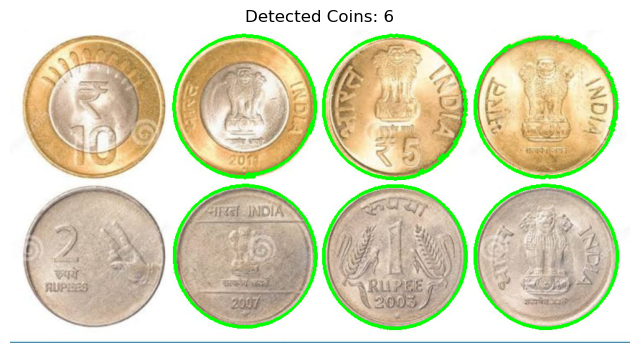
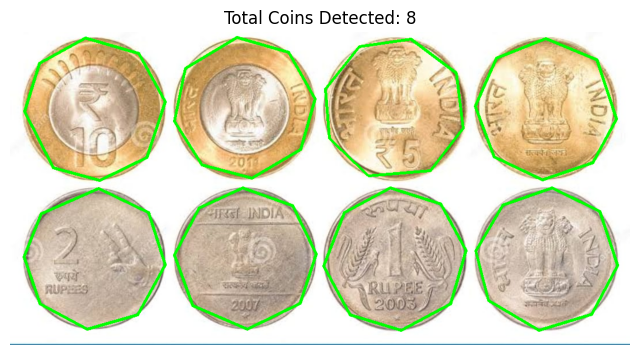
sdf

diff --git a/readme.md b/readme.md
@@ -91,7 +91,7 @@ Prewitt is generally used when you want simpler, faster computations and you are
 Sobel X/Y might produce less extreme values or smoother gradients, which are more subtle, leading to gradual gray-scale variations.
 Prewitt X/Y, by contrast, might produce a stronger contrast in its edge detections, where you have stark differences between edge and non-edge pixels, hence appearing as black and white.
 
-### 3. mill hilderth edge detection
+### 3. Mill hilderth edge detection
 
 Uses Laplacian of Gaussian (LoG) to detect zero crossings.
 
@@ -120,40 +120,11 @@ one pixel thick edges
 less error(get true edges)
 
 ## total count of coin detected
-Load the Image
 
-    The script reads the image file (coinn.jpg).
+ The script applies grayscale conversion, Gaussian blurring, adaptive thresholding, and morphological processing to identify circular objects (coins). It filters contours based on area and circularity to ensure accurate counting. The detected coins are outlined in green, and the total count is displayed.
 
-Resize for Consistency
+![alt text](<images/output of finding no of coins.png>)
 
-    The image is resized to 80% of its original size while maintaining the aspect ratio.
-
-Convert to Grayscale
-
-    The image is converted to a grayscale format to simplify processing.
-
-Apply Adaptive Thresholding
-
-    Adaptive Gaussian thresholding is used to highlight the coins against the background.
-
-Find Contours
-
-    Contours (edges of objects) are detected in the thresholded image.
-
-Filter Contours by Area
-
-    Small contours (noise) are removed based on a minimum area threshold (5000 pixels).
-
-Draw Contours and Count Coins
-
-    The detected coin contours are drawn in green, and the number of coins is counted.
-
-Display Results
-
-    The processed image with detected coins is displayed along with the total count.
-
-   ![alt text](<images/output of finding no of coins.png>)
-    
 ## Results and Analysis
 
 Sobel Detector: Smooth edges with less noise sensitivity.
